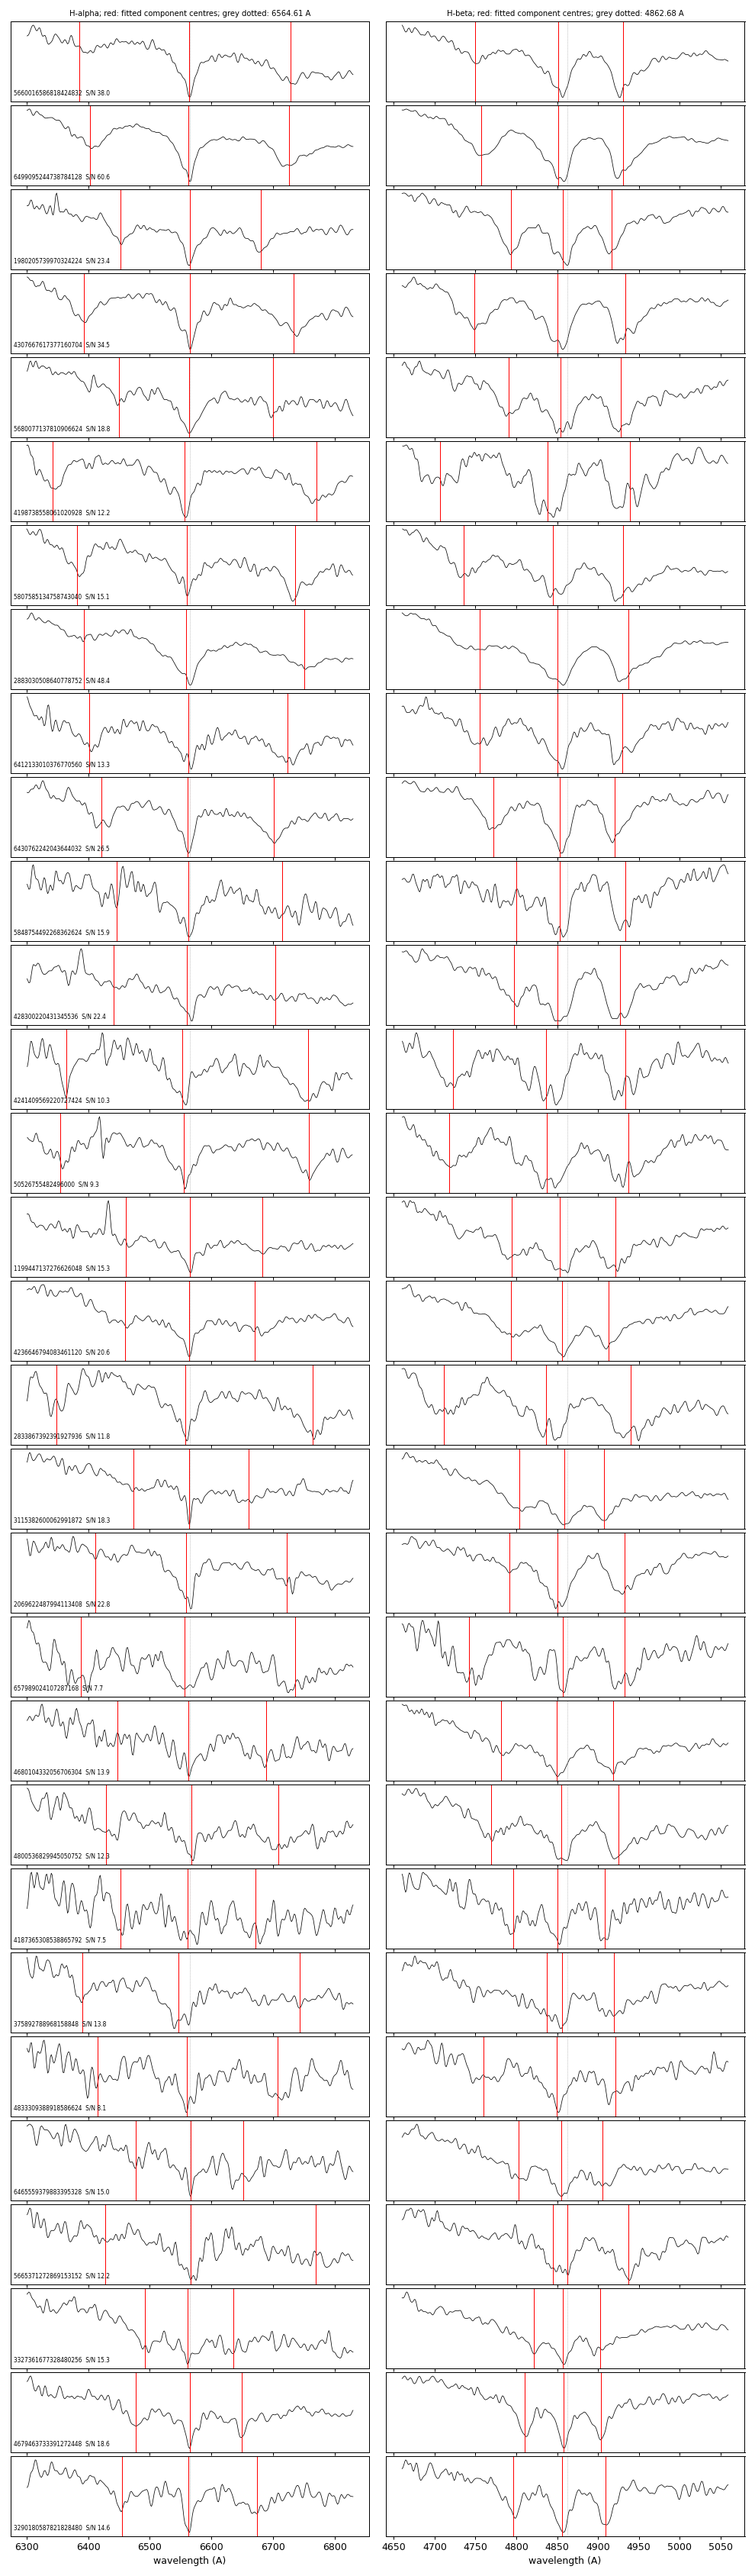
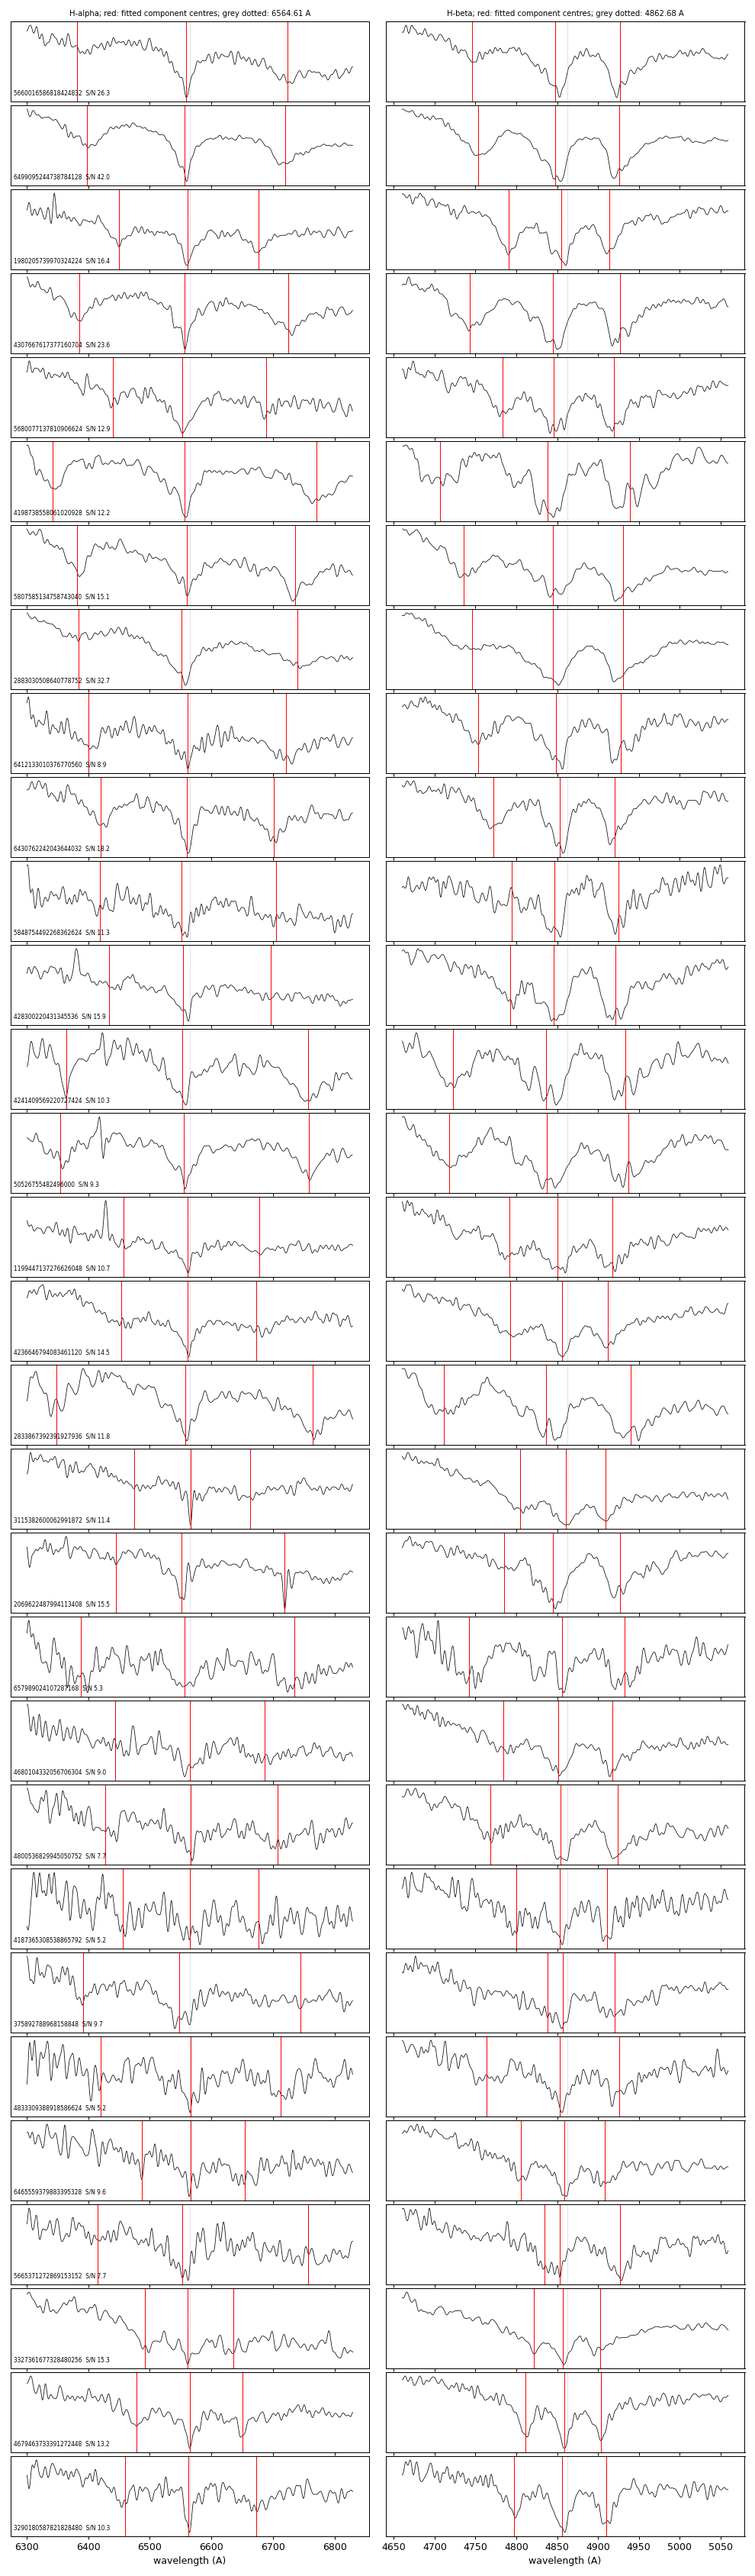
Measure Zeeman coadds on visit spectra with the XCSAO shift removed

diff --git a/scripts/zeeman_split.py b/scripts/zeeman_split.py
@@ -3,10 +3,12 @@ Model per line: linear continuum x (1 - broad concentric Gaussian - three Gaussi
 widths and depths). B_split = half-separation of the outer components / (4.67e-13 lambda0^2 [A/G]), i.e. 20.13 A/MG (H-alpha)
 and 11.04 A/MG (H-beta); it uses only the separation of the two outer components. Fitted component centres, the common shift of
 the central component and the asymmetry (red minus blue outer offset) are also reported.
+Spectrum: 'coadd' = inverse-variance coadd of the in-stack mwmVisit spectra after removing the XCSAO shift (sdssv.visits, sdssv.coadd);
+S/N = quadrature sum of the visit S/N values. The Astra mwmStar coadd is not used because it is in the XCSAO frame.
 Usage: python zeeman_split.py tables/magnetic_zeeman.csv  (columns gaia_dr3, sdss_id, spectrum = coadd or visit MJD)"""
 import sys, numpy as np, pandas as pd
 from scipy.optimize import least_squares
-from sdssv import star_spectrum, visits
+from sdssv import visits, coadd
 L0 = {"Ha": 6564.61, "Hb": 4862.68}; K = {k: 4.67e-13 * v ** 2 * 1e6 for k, v in L0.items()}
 WIN = {"Ha": (6300, 6830), "Hb": (4660, 5060)}
 
@@ -32,10 +34,11 @@ def fit(x, y, iv, l0, dl0):
 
 
 def measure(sdss_id, spectrum="coadd"):
+    vs = visits(sdss_id)
     if spectrum == "coadd":
-        lam, f, iv, snr = star_spectrum(sdss_id)
+        vs = [x for x in vs if x["in_stack"]]; lam, f, iv = coadd(vs); snr = float(np.sqrt(np.sum([x["snr"] ** 2 for x in vs])))
     else:
-        v = [x for x in visits(sdss_id) if str(x["mjd"]) == str(spectrum)][0]; lam, f, iv, snr = v["wave"], v["flux"], v["ivar"], v["snr"]
+        v = [x for x in vs if str(x["mjd"]) == str(spectrum)][0]; lam, f, iv, snr = v["wave"], v["flux"], v["ivar"], v["snr"]
     out = dict(snr=round(snr, 1))
     for k in ("Ha", "Hb"):
         m = (lam > WIN[k][0]) & (lam < WIN[k][1]); p, C = fit(lam[m], f[m], iv[m], L0[k], 6.0 * K[k])

diff --git a/scripts/figures.py b/scripts/figures.py
@@ -5,7 +5,7 @@ from scipy.ndimage import gaussian_filter1d, percentile_filter
 from astropy.io import fits
 from astropy.timeseries import LombScargle
 from astroquery.mast import Observations
-from sdssv import star_spectrum, visits, coadd, C
+from sdssv import visits, coadd, C
 T = "../tables"; F = "../figures"; os.makedirs(F, exist_ok=True)
 
 
@@ -18,7 +18,7 @@ def norm(w, f, iv, width=120, pct=85):
 def spectrum_for(row):
     s = str(row["spectrum"])
     if s == "coadd":
-        return star_spectrum(row["sdss_id"])[:3]
+        return coadd([x for x in visits(row["sdss_id"]) if x["in_stack"]])
     v = [x for x in visits(row["sdss_id"]) if str(x["mjd"]) == s.split()[-1]][0]
     return v["wave"], v["flux"], v["ivar"]
 

diff --git a/README.md b/README.md
@@ -24,13 +24,15 @@ The scripts download the public data and recompute the tables. Data were retriev
 Figures in `figures/` are made by `scripts/figures.py`.
 
 ## Methods
-- **SDSS-V spectra.** mwmStar coadds and mwmVisit spectra from `data.sdss.org/sas/dr20/spectro/astra/0.8.1`. For visits with `in_stack = True`, the XCSAO velocity shift is removed (wavelength = grid × (1 + v_xcsao/c)); other visits are used as delivered. Coadds of visits are inverse-variance weighted on a common log-wavelength grid (`sdssv.py`).
+- **SDSS-V spectra.** mwmVisit spectra from `data.sdss.org/sas/dr20/spectro/astra/0.8.1`. For visits with `in_stack = True`, the XCSAO velocity shift is removed (wavelength = grid × (1 + v_xcsao/c)); other visits are used as delivered. Coadds of visits are inverse-variance weighted on a common log-wavelength grid (`sdssv.py`). The Astra mwmStar coadds are in the XCSAO frame and are not used.
 - **Zeeman splitting.** H-alpha (6300-6830 Å) and H-beta (4660-5060 Å) are each fitted with:
   - a linear continuum;
   - one broad concentric Gaussian;
   - three Gaussian absorption components with free centres, widths and depths.
 
-  B_split is the half-separation of the two outer components divided by 4.67×10⁻¹³ λ0² (20.13 Å/MG at H-alpha, 11.04 Å/MG at H-beta); it uses only the outer-component separation. This is a linear-Zeeman scale, not a model-atmosphere field. The table also gives the fitted component centres (`*_sigma_minus_A`, `*_pi_A`, `*_sigma_plus_A`), the shift of the central component from the laboratory wavelength (`*_shift_A`, allowed range ±40 Å) and the asymmetry (red minus blue outer offset, `*_asym_A`).
+  B_split is the half-separation of the two outer components divided by 4.67×10⁻¹³ λ0² (20.13 Å/MG at H-alpha, 11.04 Å/MG at H-beta); it uses only the outer-component separation. This is a linear-Zeeman scale, not a model-atmosphere field. The table also gives the fitted component centres (`*_sigma_minus_A`, `*_pi_A`, `*_sigma_plus_A`), the shift of the central component from the vacuum laboratory wavelength in the observed frame, without a radial-velocity correction (`*_shift_A`, allowed range ±40 Å), and the asymmetry (red minus blue outer offset, `*_asym_A`).
+
+  `spectrum` is either `coadd` (all in-stack visits) or a single visit. For a coadd, `snr` is the quadrature sum of the visit S/N values.
 - **Line cross-correlation.**
   - The pseudo-continuum is a running 85th percentile over 120 Å.
   - Templates use the 15 strongest NIST ASD vacuum lines per species (`data/nist_vacuum_lines.json`, regenerated by `nist_lines.py`).
